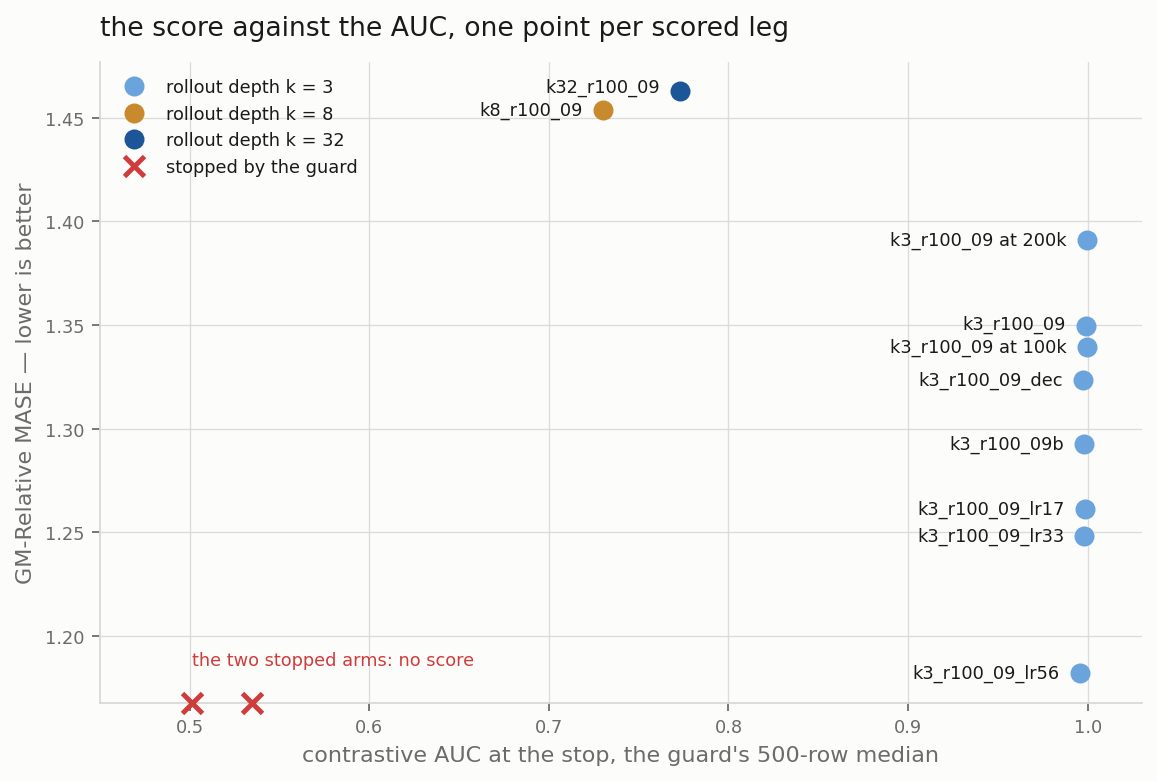
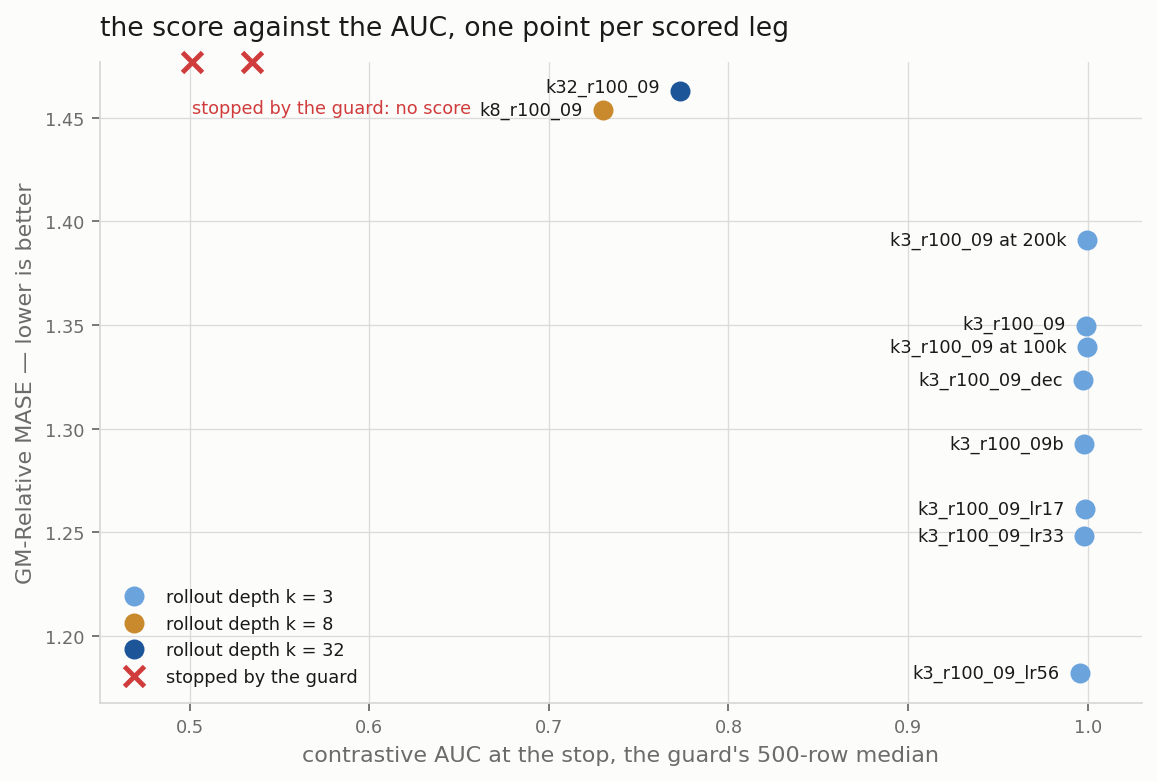
report(#412): apply the six round-2 review gaps
- lede compares against the better 1e-3 seed: 0.1107, 1.9 bands
- no table row for a leg that still trains, and the report says which
- delete the unsourced 0.9039
- retitle the AUC section to the verdict column: two of four mean arms
- retitle the uniformity section to what the figure shows
- auc_score.png moves the stopped arms to the top axis line, no score

Changed region(s): [[0.0933, 0.7375, 0.4045, 0.9219], [0.1556, 0.0615, 0.4045, 0.2458], [0.0933, 0.0922, 0.1245, 0.2458]]

diff --git a/reports/2026-09-06_moirai_small_size/scripts/plot_auc_score.py b/reports/2026-09-06_moirai_small_size/scripts/plot_auc_score.py
@@ -4,7 +4,9 @@
 WHY THIS FIGURE EXISTS. A low AUC predicts a bad score, and a high AUC does
 not order the good ones. That claim needs the joint picture: one point per
 scored leg, the guard's AUC at the stop on x, GM-Relative MASE on y, and the
-two stopped arms on the axis floor, at their last AUC, with no score.
+two stopped arms on the top axis line, at their last AUC, with no score.
+The top line is the high-MASE edge, so a stopped arm can not read as a good
+score.
 
 Sources: `results/scores.csv` joined to `results/auc_verdicts.tsv` on the
 run name and the stop.
@@ -88,14 +90,15 @@ def main():
              for (run, step), (auc, verdict) in verdicts.items()
              if verdict == "lost"]
     for (run, step), auc in floor:
-        ax.plot(auc, 0.0, "x", markersize=9, markeredgewidth=2.2,
+        ax.plot(auc, 1.0, "x", markersize=9, markeredgewidth=2.2,
                 color=S.LOST, clip_on=False, zorder=4,
                 transform=ax.get_xaxis_transform())
     if floor:
-        ax.annotate("the two stopped arms: no score",
-                    (min(a for _, a in floor), 0.03),
-                    xycoords=("data", "axes fraction"), xytext=(0, 8),
-                    textcoords="offset points", fontsize=8, color=S.LOST)
+        ax.annotate("stopped by the guard: no score",
+                    (min(a for _, a in floor), 0.97),
+                    xycoords=("data", "axes fraction"), xytext=(0, -8),
+                    textcoords="offset points", fontsize=8, color=S.LOST,
+                    va="top")
 
     ax.set_xlabel("contrastive AUC at the stop, the guard's 500-row median")
     ax.set_ylabel("GM-Relative MASE — lower is better")
@@ -111,7 +114,7 @@ def main():
                           markersize=9, markeredgewidth=2.2,
                           label="stopped by the guard"))
     ax.legend(handles=handles, frameon=False, fontsize=8, labelcolor=S.INK,
-              loc="upper left")
+              loc="lower left")
     fig.canvas.draw()
     stack(ax, labels)
 

diff --git a/reports/2026-09-06_moirai_small_size/moirai_small_size.md b/reports/2026-09-06_moirai_small_size/moirai_small_size.md
@@ -1,8 +1,8 @@
 # At Moirai-2-Small size, the learning rate moves the score more than the capacity
 
-At 11.4M parameters and 40,000 steps, the published rate 1e-3 is the worst of
-the four rates this card tested. The same configuration at 5.6e-4 gains 0.1675
-GM-Relative MASE, 2.9 seed bands. Next: #414.
+At 11.4M parameters and 40,000 steps, a rate change from the published 1e-3
+to 5.6e-4 gains 0.1107 GM-Relative MASE against the better 1e-3 seed, 1.9
+seed bands. Next: #414.
 
 ## The rate has an interior minimum at 5.6e-4
 
@@ -47,7 +47,7 @@ The orchestrator overruled it before the seed scores existed, because the
 (`results/gate_40k.txt`). So the climb uses seed 20260520, the worse 1e-3
 seed.
 
-## At 1e-3, every mean arm loses AUC and every sum arm keeps it
+## The guard stopped two of the four mean arms and no sum arm
 
 ![the contrastive AUC](plots/auc.png)
 
@@ -66,10 +66,10 @@ A k = 3 against k = 32 comparison moves three settings together: the depth,
 the reduction, and the weight of the rollout term. The sum reduction
 multiplies that weight by k + 1, so 4 copies at k = 3 and 33 at k = 32.
 This card cannot assign the split to the depth or the rate alone,
-and the inheritance table below shows the confound. At 5.6e-4 the one mean arm
-so far, `k32_r100_09_lr56`, holds 0.9546 through its first 5,600 steps.
+and the inheritance table below shows the confound. The one mean arm at
+5.6e-4, `k32_r100_09_lr56`, still trains and prints no number here.
 
-## The two stopped arms move in opposite directions
+## One stopped arm falls to near-zero dimension usage, the other rises
 
 ![the dimension usage of the two stopped arms](plots/lost_uniformity.png)
 
@@ -83,8 +83,7 @@ toward the EMA teacher's latent. `k32_r200_08` carries `L_rep` at weight 1.0
 for all 28,500 logged steps, so the decay is not required to lose the task.
 Dropping `L_rep` does not cause a loss either. `k3_r100_09_dec` runs 38,000
 steps at weight 0.0 and holds a floor of 0.9797. It scores 1.3236, inside its
-cell's seed range. That floor is above 0.9039, the best 500-row median the
-plain k = 32 arm reaches after step 10,000.
+cell's seed range.
 
 ## The AUC does not rank the healthy arms
 
@@ -93,7 +92,7 @@ plain k = 32 arm reaches after step 10,000.
 GM-Relative MASE against the AUC at the stop, one point per scored leg. A
 leg is one continuous training segment of an arm toward one stop. The k = 3
 points run `sum` and the k = 8 and k = 32 points run `mean`. The two stopped
-arms sit on the axis line with no score.
+arms sit on the top axis line, with no score.
 
 `k32_r100_09` is 5.5 bands behind its 1.1M twin at 1.1507, a gap this card
 cannot split between the width and the rate misfit.
@@ -192,7 +191,6 @@ differ in both the momentum and the decay. Neither schedule completes by
 |---|---|---|---|---|---|
 | k32_r100_09 | held | 0.6827 | 20872 | 0.7732 | 40000 |
 | k32_r100_09_dec | lost | 0.5014 | 19100 | 0.5014 | 19100 |
-| k32_r100_09_lr56 | held | 0.9546 | 5600 | 0.9546 | 5600 |
 | k32_r200_08 | lost | 0.5347 | 28500 | 0.5347 | 28500 |
 | k3_r100_09 | held | 0.9931 | 1942 | 0.9988 | 40000 |
 | k3_r100_09 | held | 0.9974 | 40001 | 0.9994 | 100000 |
@@ -201,7 +199,6 @@ differ in both the momentum and the decay. Neither schedule completes by
 | k3_r100_09_lr17 | held | 0.9852 | 5991 | 0.9985 | 40000 |
 | k3_r100_09_lr33 | held | 0.9913 | 3337 | 0.9980 | 40000 |
 | k3_r100_09_lr56 | held | 0.9936 | 34553 | 0.9956 | 40000 |
-| k3_r100_09_lr56 | held | 0.9956 | 40001 | 0.9986 | 56100 |
 | k3_r100_09b | held | 0.9922 | 1869 | 0.9982 | 40000 |
 | k8_r100_09 | held | 0.6847 | 14106 | 0.7302 | 40000 |
 
@@ -221,14 +218,12 @@ what the same cell, seed and stop reached at 1.1M parameters, and where.
 | k8_r100_09 | 8 | 0.9 to 1.0 at 100k | no | 0.971 | 0.961 | 0.920 | 0.881 | 0.812 | 0.717 | 0.769 | 0.769 | 0.772 | 0.730 | held | — | — |
 | k32_r100_09 | 32 | 0.9 to 1.0 at 100k | no | 0.968 | 0.937 | 0.889 | 0.892 | 0.840 | 0.793 | 0.763 | 0.843 | 0.789 | 0.773 | held | 0.978 | the EMA-momentum study |
 | k32_r200_08 | 32 | 0.8 to 1.0 at 200k | no | 0.877 | 0.814 | 0.788 | 0.749 | 0.739 | 0.751 | 0.796 | 0.568 | 0.555 | — | lost at 28,152 | 0.957 | the EMA-momentum study |
-| k32_r100_09_lr56 | 32 | 0.9 to 1.0 at 100k | no | 0.973 | 0.964 | — | — | — | — | — | — | — | — | held | — | — |
 | k32_r100_09_dec | 32 | 0.9 to 1.0 at 100k | yes | 0.978 | 0.746 | 0.758 | 0.742 | 0.642 | 0.747 | 0.718 | — | — | — | lost at 18,634 | 0.983 | the L_rep-decay study |
 
 Compare two rows only when they differ in one column. These are the pairs,
 and there are no others:
 
 - `k32_r100_09` against `k32_r100_09_dec`, which moves the L_rep decay
-- `k32_r100_09` against `k32_r100_09_lr56`, which moves the learning rate
 - `k32_r100_09` against `k32_r200_08`, which moves the EMA momentum
 - `k32_r100_09` against `k8_r100_09`, which moves the rollout depth
 - `k3_r100_09_lr17` against `k3_r100_09_lr33`, which moves the learning rate
@@ -242,14 +237,13 @@ and there are no others:
 
 ### The loss by term
 
-A leg still training prints two last steps: `results/auc_verdicts.tsv` reads
-`k3_r100_09_lr56` at 56,100 and `results/loss_terms.csv` at 56,000.
+Two pass-2 legs train now and print no row: `k3_r100_09_lr56` past 40,000
+toward 200,000, and `k32_r100_09_lr56` toward 40,000.
 
 | arm | stop | last step | total loss | L_rep | L_align | L_rep weight | EMA momentum | AUC |
 |---|---|---|---|---|---|---|---|---|
 | k32_r100_09 | 40,000 | 40,000 | 13.4947 | 11.6270 | 1.7583 | 1.00 | 0.9400 | 0.7629 |
 | k32_r100_09_dec | 40,000 | 19,100 | 1.8013 | — | 1.8219 | 0.00 | 0.9191 | 0.5010 |
-| k32_r100_09_lr56 | 40,000 | 5,600 | 13.2346 | 11.6068 | 1.1272 | 1.00 | 0.9056 | 0.9480 |
 | k32_r200_08 | 40,000 | 28,500 | 13.6105 | 11.5968 | 2.0018 | 1.00 | 0.8285 | 0.5254 |
 | k3_r100_09 | 100,000 | 100,000 | 12.3238 | 11.7174 | 0.1472 | 1.00 | 1.0000 | 0.9997 |
 | k3_r100_09 | 200,000 | 200,000 | 12.2424 | 11.7181 | 0.1319 | 1.00 | 1.0000 | 0.9938 |
@@ -257,7 +251,6 @@ A leg still training prints two last steps: `results/auc_verdicts.tsv` reads
 | k3_r100_09_dec | 40,000 | 40,000 | 1.0579 | — | 0.2487 | 0.00 | 0.9400 | 0.9980 |
 | k3_r100_09_lr17 | 40,000 | 40,000 | 12.8115 | 11.7678 | 0.2532 | 1.00 | 0.9400 | 0.9992 |
 | k3_r100_09_lr33 | 40,000 | 40,000 | 12.5972 | 11.7772 | 0.2020 | 1.00 | 0.9400 | 0.9983 |
-| k3_r100_09_lr56 | 100,000 | 56,000 | 13.0397 | 11.7680 | 0.2933 | 1.00 | 0.9560 | 0.9990 |
 | k3_r100_09_lr56 | 40,000 | 40,000 | 12.6520 | 11.6891 | 0.2118 | 1.00 | 0.9400 | 0.9973 |
 | k3_r100_09b | 40,000 | 40,000 | 12.9777 | 11.7567 | 0.2832 | 1.00 | 0.9400 | 0.9984 |
 | k8_r100_09 | 40,000 | 40,000 | 13.3835 | 11.6129 | 1.7117 | 1.00 | 0.9400 | 0.7563 |
